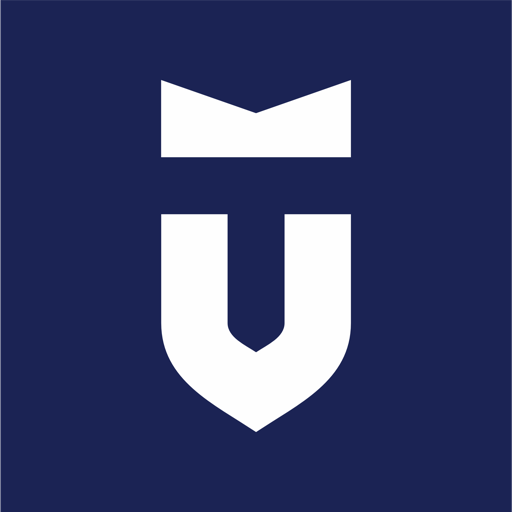
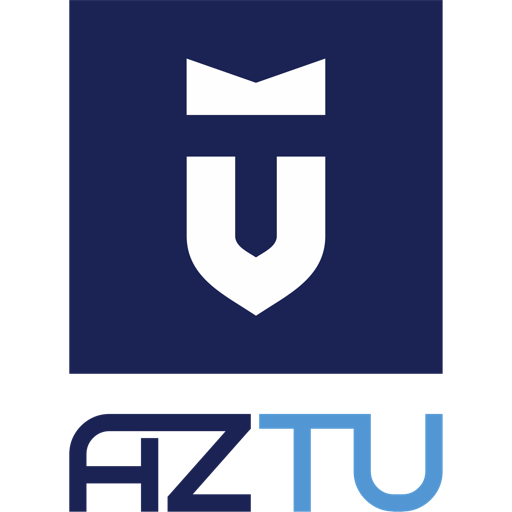
feat: volume & issue

diff --git a/app/layout.css b/app/layout.css
@@ -82,17 +82,25 @@ section[id]{ scroll-margin-top:6rem; }
 .tools{ gap:.45rem; }
 .nav__drawer-only{ display:none; }
 
-/* ---- brand mark: the AzTU emblem -----------------------------------------
+/* ---- brand mark: the full AzTU lockup ------------------------------------
    design.css sized .brand__mark for a 30px inline SVG that it also spun. It is
-   now the university's square emblem as an <img>, so the spin is gone (a real
-   institutional mark should not rotate) and the box is squared off. */
-img.brand__mark{ width:34px; height:34px; border-radius:3px; object-fit:contain; }
-.ft__mark img{ width:30px; height:30px; border-radius:3px; object-fit:contain; }
-/* The emblem is a navy tile. On the opt-in dark theme it would sit navy-on-navy,
-   so it gets the white plate an institutional logo is meant to be shown on
-   rather than being recoloured. */
+   now the university's lockup as an <img> — portrait, 350x480 — so the spin is
+   gone (an institutional mark should not rotate) and the height drives the box
+   with the width following the aspect ratio. */
+img.brand__mark{ height:46px; width:auto; border-radius:0; object-fit:contain; }
+.ft__mark img{ height:52px; width:auto; object-fit:contain; }
+/* The lockup is navy on transparent: its tile and the "AZ" half of the wordmark
+   both disappear against the opt-in dark theme. Rather than recolour an
+   institutional mark, give it the white plate it is meant to be shown on. */
 :root[data-theme="dark"] img.brand__mark,
-:root[data-theme="dark"] .ft__mark img{ background:#fff; padding:2px; }
+:root[data-theme="dark"] .ft__mark img{
+  background:#fff; padding:3px 5px; border-radius:3px;
+}
+/* Shorter bar on phones — the lockup is the tallest thing in the header. */
+@media (max-width:480px){
+  img.brand__mark{ height:38px; }
+  .ft__mark img{ height:44px; }
+}
 
 /* ---- "Information for Authors" dropdown ----------------------------------
    No client state: it opens on :hover for pointers and on :focus-within for

diff --git a/app/articles/[id]/page.tsx b/app/articles/[id]/page.tsx
@@ -11,6 +11,7 @@ import {
   issueParts,
   pagesLabel,
   parseKeywords,
+  toRoman,
 } from "@/lib/journal";
 import MetricBeacon from "@/components/MetricBeacon";
 import PageHeader from "@/components/PageHeader";
@@ -337,6 +338,36 @@ export default async function ArticlePage({ params }: { params: Promise<{ id: st
                     <div className="mrow__k">Citations</div>
                   </div>
                 </div>
+
+                {/* Where the article sits in the run. Volume and number come
+                    from the parent issue — the same values the citation exports
+                    and the citation_volume / citation_issue tags use, so a
+                    reader copying a reference off this card cannot disagree
+                    with the BibTeX below it. */}
+                {issue && (
+                  <div className="mplace">
+                    {issue.volume != null && (
+                      <span>
+                        <b>Volume</b> {issue.volume}
+                      </span>
+                    )}
+                    {issue.number != null && (
+                      <span>
+                        <b>Number</b> {toRoman(issue.number)}
+                      </span>
+                    )}
+                    {issue.year ? (
+                      <span>
+                        <b>Year</b> {issue.year}
+                      </span>
+                    ) : null}
+                    {pages && (
+                      <span>
+                        <b>Pages</b> {pages.replace(/^pp?\.\s*/, "")}
+                      </span>
+                    )}
+                  </div>
+                )}
               </div>
 
               <div className="scard">

diff --git a/components/SiteHeader.tsx b/components/SiteHeader.tsx
@@ -161,11 +161,10 @@ export default function SiteHeader({ locale }: { locale: Locale }) {
       <header className={"nav" + (stuck ? " stuck" : "")} id="nav">
         <div className="wrap nav__in">
           <Link className="brand" href="/">
-            {/* The university's own emblem — the square navy tile from the
-                official AzTU lockup. The wordmark half of that lockup is
-                dropped here: at 34px "AZTU" is unreadable, and brand__sub
-                already carries it in type. */}
-            <img className="brand__mark" src="/emblem.png" alt="" width={34} height={34} />
+            {/* The full AzTU lockup — emblem plus wordmark. width/height carry
+                the intrinsic 350x480 so the browser reserves the right box
+                before it loads; CSS sets the displayed height. */}
+            <img className="brand__mark" src="/logo.png" alt="Azerbaijan Technical University" width={350} height={480} />
             <span className="brand__txt">
               {/* lang="en": the journal's registered name is English. Without this,
                   text-transform:uppercase under lang="az" casts i -> İ and the
@@ -173,7 +172,7 @@ export default function SiteHeader({ locale }: { locale: Locale }) {
               <span className="brand__name" lang="en">
                 Machine Science
               </span>
-              <span className="brand__sub">AzTU · Est. 2001</span>
+              <span className="brand__sub">Est. 2001</span>
             </span>
           </Link>
 

diff --git a/app/articles/[id]/article.css b/app/articles/[id]/article.css
@@ -20,6 +20,25 @@
 }
 .art-flag svg{ width:11px; height:11px; color:var(--accent); flex:none; }
 
+/* Volume / number / year / pages, under the metrics in the action rail.
+   Two columns of small ruled pairs — the citation coordinates a reader needs
+   next to the counts, without competing with them for weight. */
+.mplace{
+  display:grid; grid-template-columns:repeat(2,minmax(0,1fr));
+  gap:.5rem .8rem;
+  margin-top:.95rem; padding-top:.85rem;
+  border-top:1px solid var(--rule-2);
+}
+.mplace span{
+  display:flex; flex-direction:column; gap:.18rem;
+  font-family:var(--f-mono); font-size:.74rem; color:var(--ink);
+  font-variant-numeric:tabular-nums; min-width:0;
+}
+.mplace b{
+  font-weight:500; font-size:.5rem; letter-spacing:.13em;
+  text-transform:uppercase; color:var(--ink-3);
+}
+
 /* Keywords double as archive queries, so they are links, not labels. */
 .art-kw{ display:flex; flex-wrap:wrap; gap:.45rem; }
 .art-kw .key{

diff --git a/components/SiteFooter.tsx b/components/SiteFooter.tsx
@@ -69,7 +69,7 @@ export default async function SiteFooter({ locale }: { locale: Locale }) {
           {/* ---- masthead ---- */}
           <div className="ft__brand">
             <Link className="ft__mark" href="/">
-              <img src="/emblem.png" alt="" width={30} height={30} />
+              <img src="/logo.png" alt="Azerbaijan Technical University" width={350} height={480} />
               <span className="ft__nm" lang="en">
                 {JOURNAL_NAME}
               </span>
